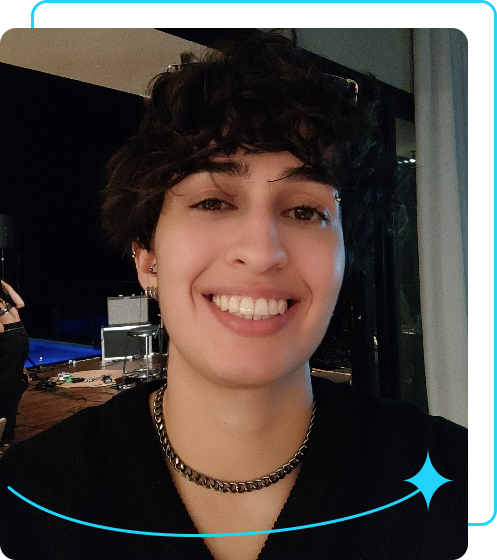
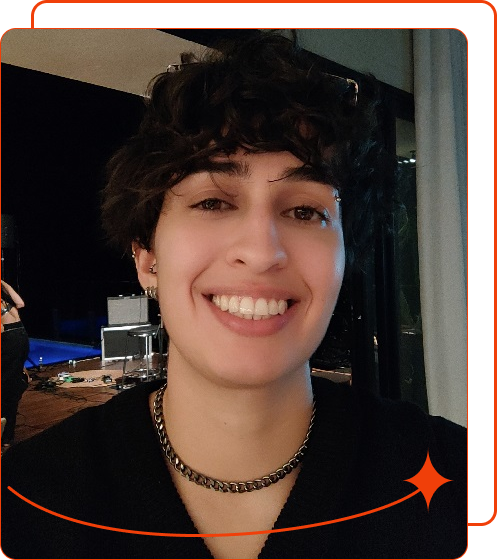
atualização cores

diff --git a/index.html b/index.html
@@ -28,9 +28,6 @@
                 <a class="apresentacao__links__navegacao" href="https://github.com/nataliabo1995" target="_blank">
                     <img src="./assets/github.png">
                     GitHub</a>
-                <a class="apresentacao__links__navegacao" href="https://instagram.com/natalia_b.o" target="_blank">
-                    <img src="./assets/instagram.png">
-                    Instagram</a>
             </div>
         </section>
         <img src="./assets/Imagem.png" class="apresentacao__imagem" alt="Foto Natalia">

diff --git a/styles/style.css b/styles/style.css
@@ -3,7 +3,7 @@
 :root {
     --cor--primaria: #000000;
     --cor--secundaria: #f6f6f6;
-    --cor--terciaria: #22D4FD;
+    --cor--terciaria: #f03f09;
     --cor--hover: #272727;
 
     --fonte-primaria: 'Krona One', sans-serif;
